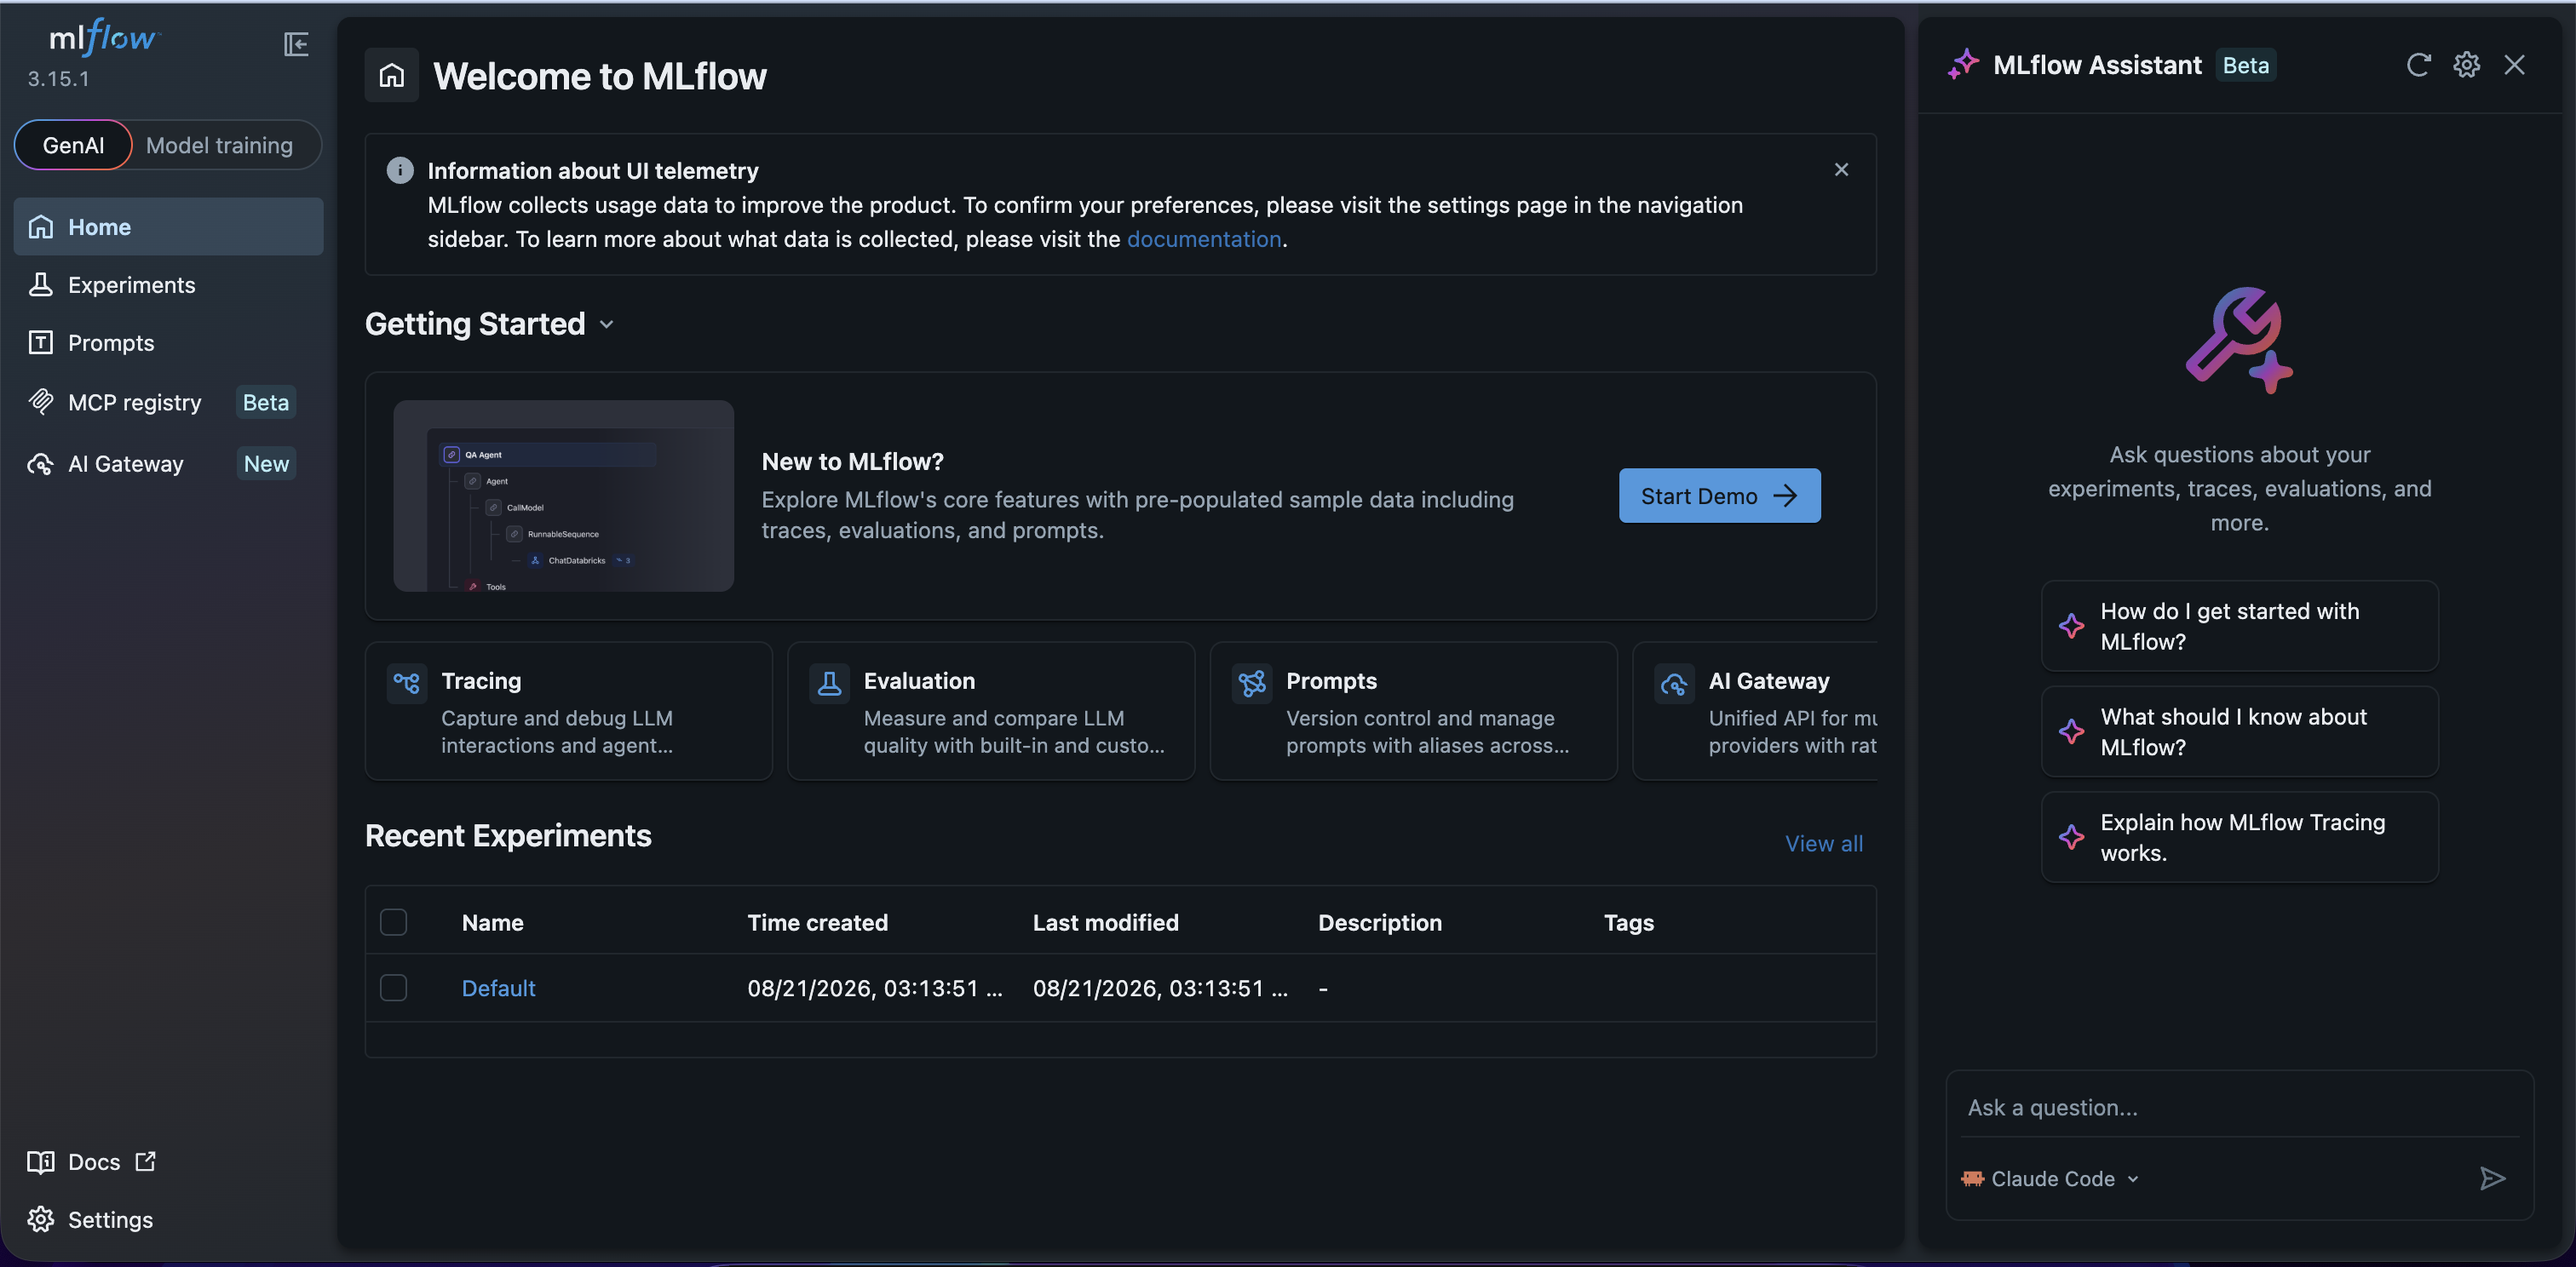
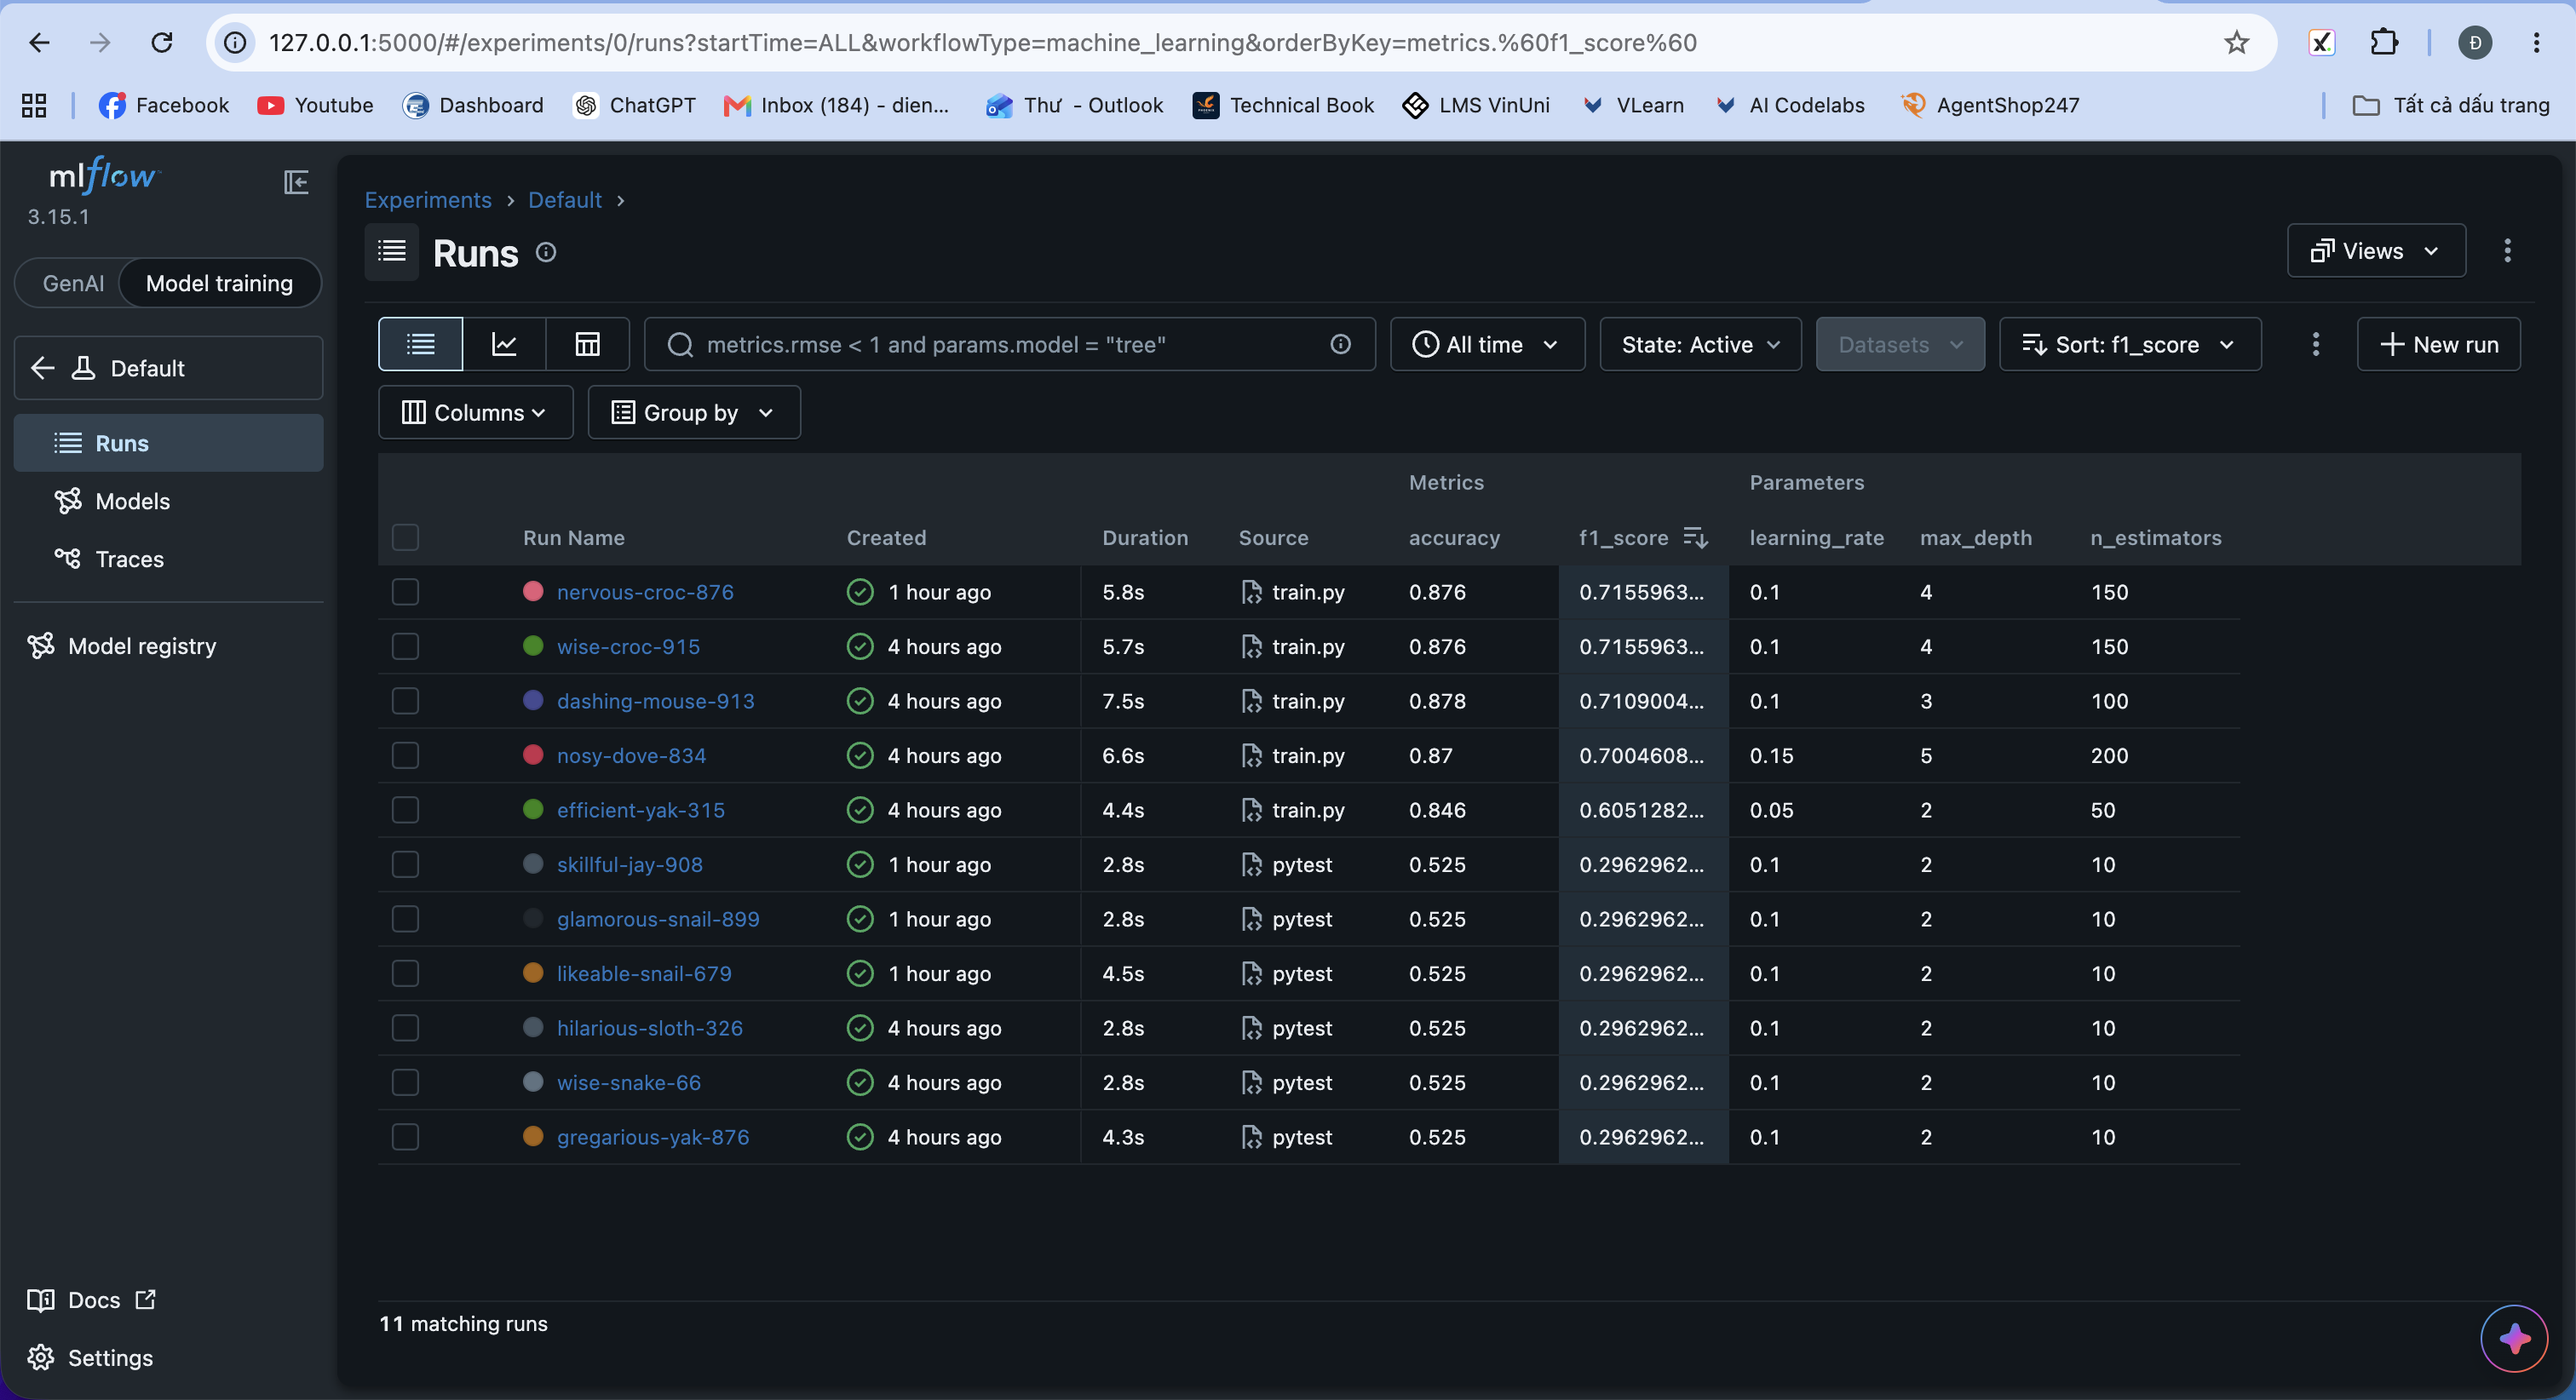
docs: add submission screenshots

diff --git a/nop-bai/README.md b/nop-bai/README.md
@@ -23,7 +23,7 @@ nop-bai/
 Đánh dấu `[x]` khi hoàn thành từng mục:
 
 - [x] Repo GitHub ở chế độ **public** và chứa toàn bộ code, cấu hình đã hoàn thiện.
-- [ ] Đủ 5 ảnh trong `anh-chup-man-hinh/`, đúng tên file, đúng thứ tự (xem
+- [x] Đủ 5 ảnh trong `anh-chup-man-hinh/`, đúng tên file, đúng thứ tự (xem
       [yêu cầu chi tiết](anh-chup-man-hinh/README.md)).
 - [x] `bao-cao.md` đã điền đủ 3 mục bắt buộc và không vượt quá 1 trang A4.
 - [x] Đã `git push` toàn bộ thư mục `nop-bai/` lên GitHub.
